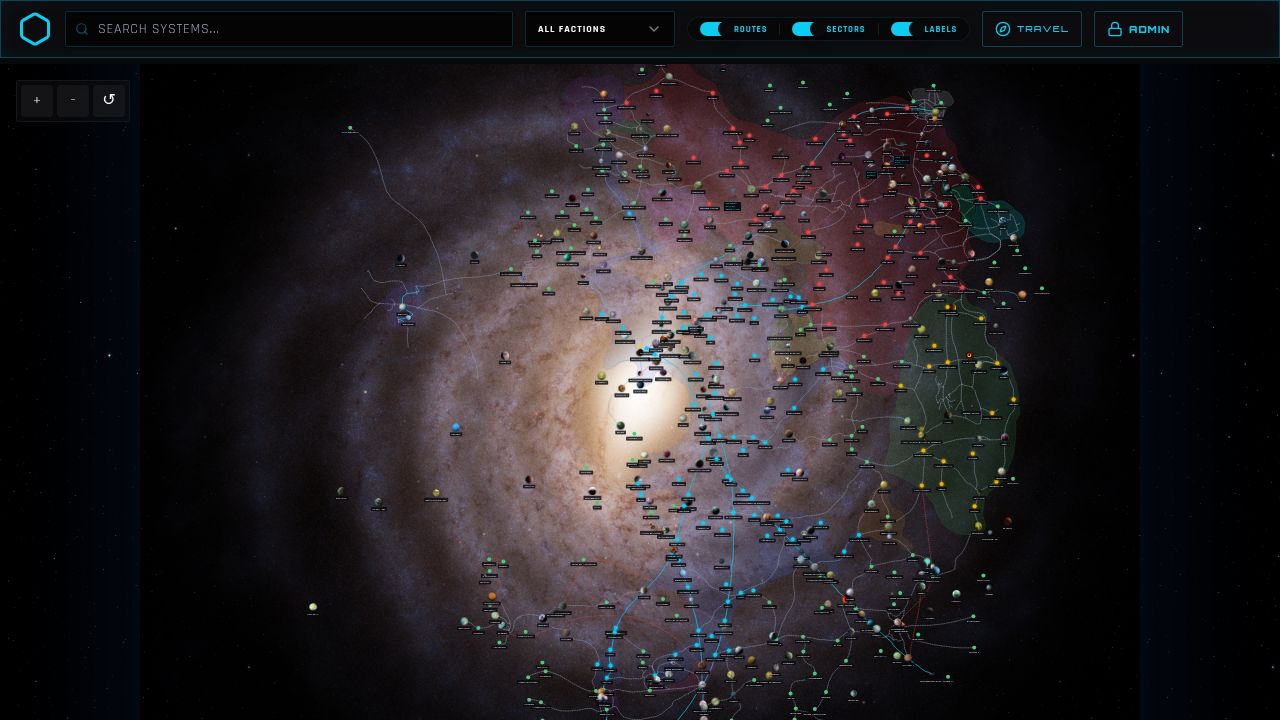
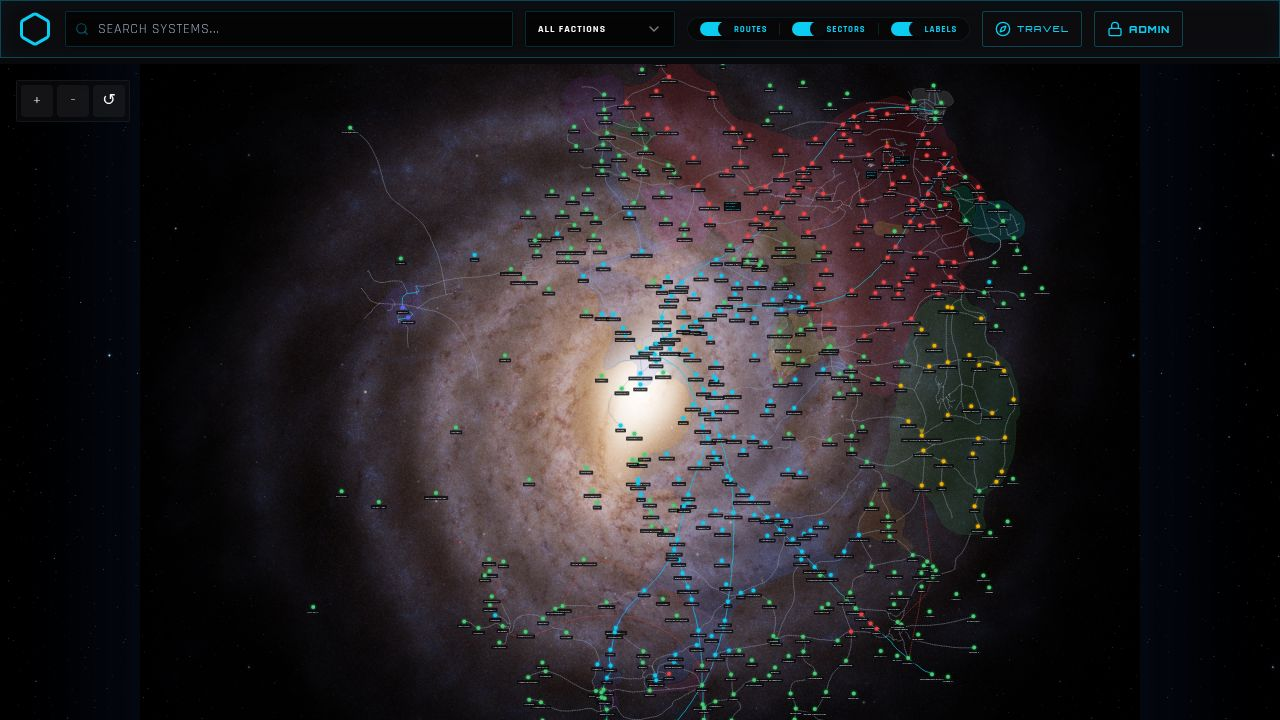
Improve planet image loading by showing low-resolution placeholders until zoomed in
Conditionally render planet images based on zoom level, implementing lazy loading with a colored dot placeholder at lower zoom levels and a smooth fade-in transition once the full-resolution image has loaded.

Replit-Commit-Author: Agent
Replit-Commit-Session-Id: 1cb2636f-323e-4328-82bc-dcdd1be9fdb9
Replit-Commit-Checkpoint-Type: full_checkpoint
Replit-Commit-Event-Id: bab29ed1-61d2-4215-904e-51f5a3846dd6
Replit-Commit-Screenshot-Url: https://storage.googleapis.com/screenshot-production-us-central1/cce723cc-92a2-4429-893e-b26478f7a821/1cb2636f-323e-4328-82bc-dcdd1be9fdb9/ISVeFP2
Replit-Helium-Checkpoint-Created: true

diff --git a/client/src/components/GalaxyMap.tsx b/client/src/components/GalaxyMap.tsx
@@ -55,6 +55,7 @@ interface PlanetMarkerProps {
   showLabels: boolean;
   editMode: boolean;
   hasBrokenImage: boolean;
+  shouldLoadImage: boolean;
   onImageError: (id: string) => void;
   onClick: (e: React.MouseEvent, planet: Planet) => void;
   onMouseEnter: (id: string) => void;
@@ -62,12 +63,46 @@ interface PlanetMarkerProps {
   onMouseDown: (e: React.MouseEvent, planet: Planet) => void;
 }
 
+const FACTION_DOT_CLASSES: Record<string, string> = {
+  'Empire': 'bg-destructive shadow-[0_0_12px_hsl(var(--destructive))]',
+  'Hutt Cartel': 'bg-yellow-500 shadow-[0_0_12px_#eab308]',
+  'Chiss Ascendancy': 'bg-indigo-500 shadow-[0_0_12px_#6366f1]',
+  'Galactic Republic': 'bg-primary shadow-[0_0_12px_hsl(var(--primary))]',
+};
+const INDEPENDENT_DOT_STYLE = { backgroundColor: 'hsl(140, 52%, 55%)' };
+const INDEPENDENT_DOT_SHADOW = 'shadow-[0_0_12px_hsl(140,90%,45%)]';
+const NAMED_FACTIONS = ['Empire', 'Hutt Cartel', 'Chiss Ascendancy', 'Galactic Republic'];
+
 const PlanetMarker = React.memo<PlanetMarkerProps>(({
   planet, pad, isSelected, isHovered, hasOtherHovered, isLaneStart,
-  planetUnlocked, showLabels, editMode, hasBrokenImage,
+  planetUnlocked, showLabels, editMode, hasBrokenImage, shouldLoadImage,
   onImageError, onClick, onMouseEnter, onMouseLeave, onMouseDown
 }) => {
   const shouldHide = !isSelected && !isHovered && (planet.isMinor || hasOtherHovered);
+  const [imgLoaded, setImgLoaded] = useState(false);
+
+  // Only mount the <img> element when zoomed in enough — prevents image
+  // requests at low zoom. Once loaded, imgLoaded stays true for this mount.
+  const hasCustomImage = shouldLoadImage && !!planet.markerImage?.trim() && !hasBrokenImage;
+
+  const isIndependent = !NAMED_FACTIONS.includes(planet.faction || '');
+  const dotClass = FACTION_DOT_CLASSES[planet.faction || ''] ?? INDEPENDENT_DOT_SHADOW;
+
+  // Coloured faction dot — shown at low zoom and as placeholder while image loads
+  const FactionDot = (
+    <div
+      className={cn(
+        "rounded-full relative transition-all",
+        planet.isMinor ? "w-2.5 h-2.5" : "w-5 h-5",
+        dotClass,
+        isSelected && "scale-125",
+        isLaneStart && "bg-primary shadow-[0_0_20px_hsl(var(--primary))] scale-150"
+      )}
+      style={isIndependent && !isLaneStart ? INDEPENDENT_DOT_STYLE : undefined}
+    >
+      {isSelected && <div className="absolute inset-[-6px] border-2 border-primary rounded-full animate-ping opacity-75" />}
+    </div>
+  );
 
   return (
     <div
@@ -99,37 +134,32 @@ const PlanetMarker = React.memo<PlanetMarkerProps>(({
             <Crown className="w-3.5 h-3.5 fill-amber-500/20" />
           </div>
         )}
-        {planet.markerImage && planet.markerImage.trim() && !hasBrokenImage ? (
+
+        {hasCustomImage ? (
           <div className={cn("relative transition-all duration-300", isSelected ? "scale-125 drop-shadow-[0_0_15px_rgba(255,255,255,0.6)]" : "hover:scale-110")}>
+            {/* Pulsing placeholder shown while image fetches */}
+            {!imgLoaded && (
+              <div className={cn(
+                "rounded-full animate-pulse bg-white/20",
+                planet.isMinor ? "w-5 h-5" : "w-10 h-10"
+              )} />
+            )}
             <img
-              src={planet.markerImage}
+              src={planet.markerImage!}
               alt=""
-              className={cn("object-contain pointer-events-none drop-shadow-lg", planet.isMinor ? "w-5 h-5" : "w-10 h-10")}
+              className={cn(
+                "object-contain pointer-events-none drop-shadow-lg transition-opacity duration-500",
+                planet.isMinor ? "w-5 h-5" : "w-10 h-10",
+                imgLoaded ? "opacity-100" : "opacity-0 absolute inset-0"
+              )}
+              onLoad={() => setImgLoaded(true)}
               onError={() => onImageError(planet.id)}
               style={{ color: 'transparent' }}
             />
-            {isSelected && <div className="absolute inset-[-6px] border-2 border-primary rounded-full animate-ping opacity-75"></div>}
+            {isSelected && <div className="absolute inset-[-6px] border-2 border-primary rounded-full animate-ping opacity-75" />}
           </div>
         ) : (
-          <div className={cn(
-            "rounded-full relative transition-all",
-            planet.isMinor ? "w-2.5 h-2.5" : "w-5 h-5",
-            planet.faction === 'Empire' ? "bg-destructive shadow-[0_0_12px_hsl(var(--destructive))]"
-              : planet.faction === 'Hutt Cartel' ? "bg-yellow-500 shadow-[0_0_12px_#eab308]"
-              : planet.faction === 'Chiss Ascendancy' ? "bg-indigo-500 shadow-[0_0_12px_#6366f1]"
-              : planet.faction === 'Galactic Republic' ? "bg-primary shadow-[0_0_12px_hsl(var(--primary))]"
-              : "",
-            !['Empire', 'Hutt Cartel', 'Chiss Ascendancy', 'Galactic Republic'].includes(planet.faction || '') && "shadow-[0_0_12px_hsl(140, 90%, 45%)]",
-            isSelected && "scale-125",
-            isLaneStart && "bg-primary shadow-[0_0_20px_hsl(var(--primary))] scale-150"
-          )}
-          style={
-            !['Empire', 'Hutt Cartel', 'Chiss Ascendancy', 'Galactic Republic'].includes(planet.faction || '') && !isLaneStart
-              ? { backgroundColor: 'hsl(140, 52%, 55%)' }
-              : undefined
-          }>
-            {isSelected && <div className="absolute inset-[-6px] border-2 border-primary rounded-full animate-ping opacity-75"></div>}
-          </div>
+          FactionDot
         )}
       </div>
       {showLabels && (
@@ -307,6 +337,7 @@ export const GalaxyMap = () => {
   // LOD thresholds
   const ZOOM_HIDE_MINOR = 0.32;
   const ZOOM_HIDE_JUNCTIONS = 0.28;
+  const ZOOM_LOAD_IMAGES = 0.38; // below this zoom: no <img> requests, just coloured dots
   const CULL_MARGIN = 400;
 
   const visibleBounds = useMemo(() => {
@@ -1228,6 +1259,7 @@ export const GalaxyMap = () => {
                     showLabels={showLabels}
                     editMode={editMode}
                     hasBrokenImage={brokenImages.has(planet.id)}
+                    shouldLoadImage={viewTransform.scale >= ZOOM_LOAD_IMAGES}
                     onImageError={handleImageError}
                     onClick={handlePlanetClick}
                     onMouseEnter={handlePlanetMouseEnter}
